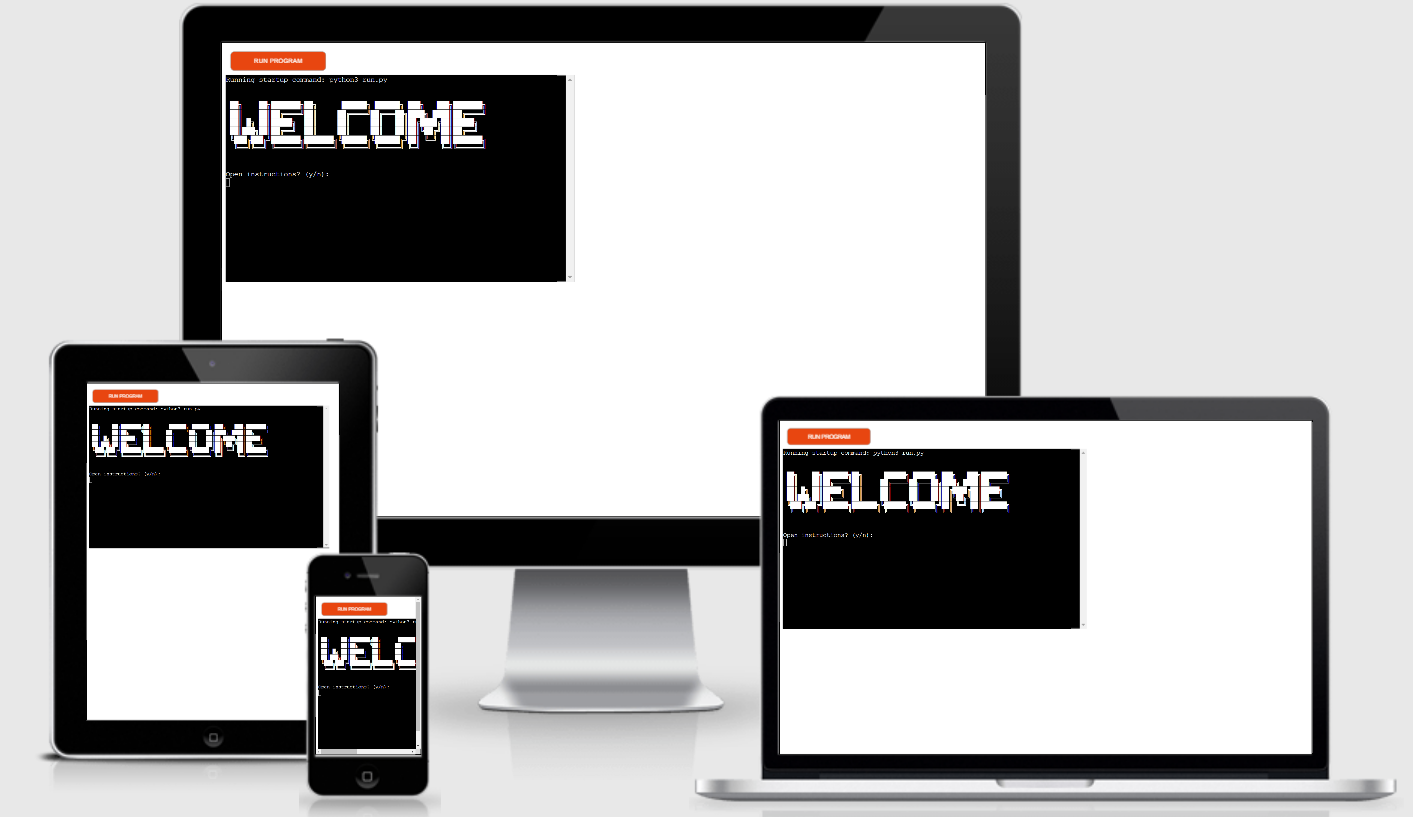
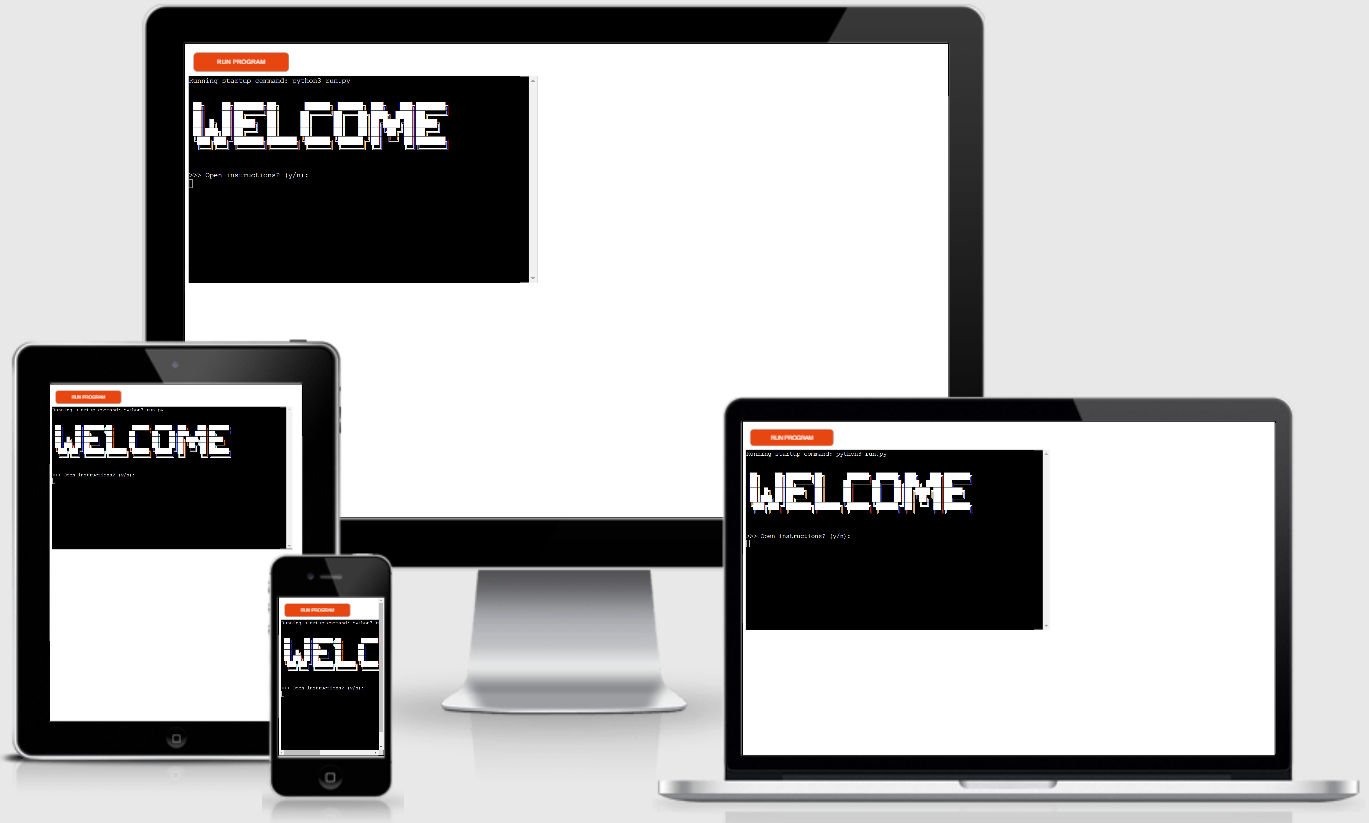
Update README. Add spacing to all print and inputs to move them off the edge of the console.

Changed region(s): [[0.0, 0.0, 1.0, 1.0], [0.3682, 0.0918, 0.4295, 0.3672]]

diff --git a/run.py b/run.py
@@ -15,15 +15,15 @@ def enter_username():
     enter_username function comments
     """
     global username
-    username = input('>>> please enter a username:\n')
+    username = input(' >>> please enter a username:\n')
     if username == 'exit':
         exit_game()
 
     if any(char in string.punctuation for char in username):
-        print('Special character used, please use letters only')
+        print(' Special character used, please use letters only')
         enter_username()
     elif any(char.isdigit() for char in username):
-        print('Number used, please use letters only')
+        print(' Number used, please use letters only')
         enter_username()
     else:
         os.system('clear')
@@ -32,11 +32,11 @@ def enter_username():
 
 # Instructions
 INSTRUCTIONS = """
-Game Instructions
+ Game Instructions
 
-1. Enter a user name to begin the game.
+ 1. Enter a user name to begin the game.
 
-2. Select a board size,
+ 2. Select a board size,
     - Small
         - Grid size = 5x5
         - Hidden ships = 5
@@ -45,16 +45,16 @@ Game Instructions
         - Grid size = 10x10
         - Hidden ships = 10
 
-3. Make a guess by entering an x and y coordinate when prompted.
+ 3. Make a guess by entering an x and y coordinate when prompted.
     - Coordinates must be numbers between
         - 1 and 5 on a small board
         - 1 and 10 on a large board
 
-4. Continue entering guesses until all ships are found.
+ 4. Continue entering guesses until all ships are found.
 
-5. Whent the game is complete, to play again enter y (yes) or n (no) when prompted.
+ 5. Whent the game is complete, to play again enter y (yes) or n (no) when prompted.
 
-Enter 'exit' at anytime to close the game.
+ Enter 'exit' at anytime to close the game.
 
 """
 
@@ -64,26 +64,26 @@ def board_size():
     board_size function comments
     """
     global size
-    print('Hello ' + username)
+    print(' Hello ' + username)
     print("""
-    Select a board size,
+     Select a board size,
 
-    - Small
+     - Small
         - Grid size = 5x5
         - Hidden ships = 5
 
-    - Large
+     - Large
         - Grid size = 10x10
         - Hidden ships = 10
     """)
-    board = input('>>> Enter s = small or l = large:\n')
+    board = input(' >>> Enter s = small or l = large:\n')
 
     if board == 'l':
         size = 10
     elif board == 's':
         size = 5
     else:
-        print('Invalid selection, please try again')
+        print(' Invalid selection, please try again')
         board_size()
 
     for i in range(size):
@@ -113,7 +113,7 @@ def place_ships():
     for i in range(size):
         ship.append(int(str(random.randint(1, size)) + str(
                     random.randint(1, size))))
-    print(ship)
+    print(ship)  # Remove
     game_play(ship)
 
 
@@ -127,16 +127,16 @@ def game_play(ship):
     while hits < len(ship):
         print(f"""
 
-Make a guess by entering an x and y coordinate when prompted.
-- Coordinates must be numbers between 1 and {len(ship)}
+ Make a guess by entering an x and y coordinate when prompted.
+ - Coordinates must be numbers between 1 and {len(ship)}
 
         """)
-        attempt_row = input(">>> Enter x coordinate:\n")
+        attempt_row = input(" >>> Enter x coordinate:\n")
 
         if attempt_row == 'exit':
             exit_game()
         
-        attempt_column = input(">>> Enter y coordinate:\n")
+        attempt_column = input(" >>> Enter y coordinate:\n")
 
         if attempt_column == 'exit':
             exit_game()
@@ -144,16 +144,16 @@ Make a guess by entering an x and y coordinate when prompted.
         try:
             x_coord = int(attempt_row)
         except:
-            print(f'Error: {attempt_row} is not a valid entry')
+            print(f' Error: {attempt_row} is not a valid entry')
 
         try:
             y_coord = int(attempt_column)
         except:
-            print(f'Error: {attempt_column} is not a valid entry')
+            print(f' Error: {attempt_column} is not a valid entry')
 
         if str(attempt_row).isdigit() and str(attempt_column).isdigit():
             if int(attempt_row) > len(ship) or int(attempt_column) > len(ship):
-                print('Coordinates outside of board. Please try again.')
+                print(' Coordinates outside of board. Please try again.')
             else:
                 if int(str(attempt_row) + str(attempt_column)) in ship:
                     os.system('clear')
@@ -171,7 +171,7 @@ Make a guess by entering an x and y coordinate when prompted.
                 print((" ").join(row))
             print(ship)
         else:
-            print('Please enter numbers only.')
+            print(' Please enter numbers only.')
 
     game_complete()
 
@@ -183,8 +183,8 @@ def game_complete():
     """
     global area
     os.system('clear')
-    print(f'Contgratulations {username}. You sunk all the Battleships')
-    play_again = input('>>> Do you want to play again (y/n)?:\n')
+    print(f' Contgratulations {username}. You sunk all the Battleships')
+    play_again = input(' >>> Do you want to play again (y/n)?:\n')
 
     if play_again == 'y':
         area = []
@@ -200,7 +200,7 @@ def exit_game():
     comments
     """
     os.system('clear')
-    print('Thanks for playing')
+    print(' Thanks for playing')
     goodbye = open('goodbye_ascii.txt', 'r')
     print(' '.join([line for line in goodbye]))
     sys.exit()
@@ -210,7 +210,7 @@ def exit_game():
 welcome = open('welcome_ascii.txt', 'r')
 print(' '.join([line for line in welcome]))
 
-view_instructions = input('>>> Open instructions? (y/n):\n')
+view_instructions = input(' >>> Open instructions? (y/n):\n')
 
 if view_instructions == 'y':
     os.system('clear')

diff --git a/README.md b/README.md
@@ -13,6 +13,7 @@ Link to deployed website - [Battleships](https://battleships-am.herokuapp.com/)
 1. [Game Instructions](#game-instructions)
 2. [User Stories](#user-stories)
 3. [Features](#features)
+    - [Instrcutions Screen](#instructions-screen)
     - [Welcome Screen](#welcome-screen)
     - [Enter Username](#enter-username)
     - [Game Play](#game-play)
@@ -50,21 +51,25 @@ Enter 'exit' at anytime to close the game.
 ## User Stories
 
 As a user of this site I can
-- enter a username of my choice
-- choose the size of board to play
-- play the game
-- restart the game
+- view the game instructions.
+- enter a username of my choice.
+- choose the size of board to play.
+- play the game.
+- restart the game.
 
 ## Features
 
 ### Welcome Screen
 
 The welcome screen consists of the following elements as shown in the below screenshot.
-- A WELCOME TO BATTLESHIPS! message.
-- Game instructions.
-- An input section for users to add a username of their choice.
+- A WELCOME message written with ASCII art.
+- An option to view the game instructions.
 
-![Welcome_screen]()
+![Welcome_screen](/readme_scsreenshots/welcome_screen.png)
+
+### Instructions
+The instructions screen consists of the following elements as shown in the below screenshot.
+- 
 
 ### Enter username
 A message to ask users to enter a username<br>
